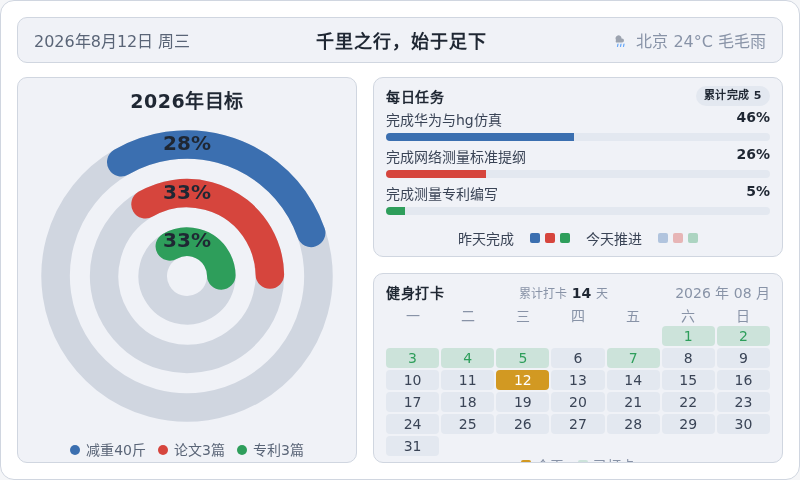
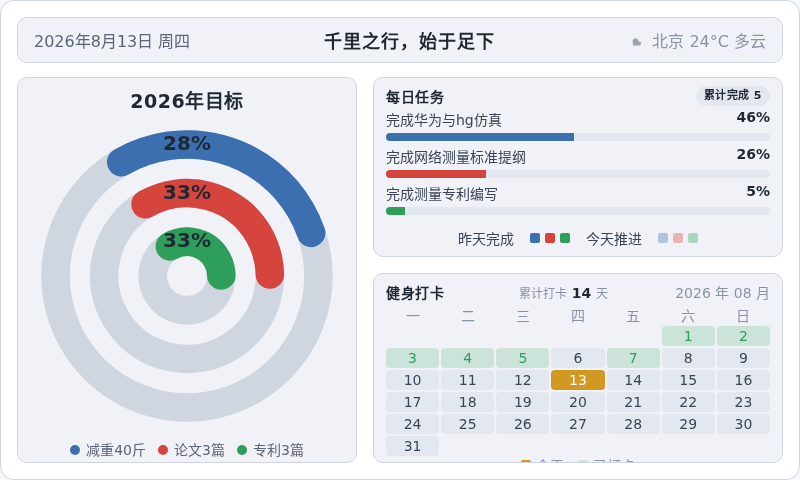
chore: 每日看板刷新 2026-08-13

diff --git a/output/dashboard.html b/output/dashboard.html
@@ -185,11 +185,11 @@
 <body>
   <div class="dash">
     <div class="topbar">
-      <div class="tb-date" id="tbDate">2026年8月12日 周三</div>
+      <div class="tb-date" id="tbDate">2026年8月13日 周四</div>
       <div class="tb-slogan">千里之行，始于足下</div>
       <div class="tb-weather">
-        <svg width="16" height="16" viewBox="0 0 16 16" aria-hidden="true"><path d="M4 8 a3 3 0 1 1 5.5 -1.5 h0.5 a2 2 0 1 1 0 4 H4 a2.5 2.5 0 0 1 0 -2.5z" fill="#9ca3af"/><g stroke="#60a5fa" stroke-width="1.2" stroke-linecap="round"><line x1="6" y1="12" x2="5.5" y2="14.5"/><line x1="9" y1="12" x2="8.5" y2="14.5"/><line x1="12" y1="12" x2="11.5" y2="14.5"/></g></svg>
-        <span>北京 24°C 毛毛雨</span>
+        <svg width="16" height="16" viewBox="0 0 16 16" aria-hidden="true"><path d="M5 11 a3 3 0 1 1 5.5 -1.5 h0.5 a2 2 0 1 1 0 4 H5 a2.5 2.5 0 0 1 0 -2.5z" fill="#9ca3af"/></svg>
+        <span>北京 24°C 多云</span>
       </div>
     </div>
     <div class="content">
@@ -248,7 +248,7 @@
           <span class="cal-date">2026 年 08 月</span>
         </div>
         <div class="cal-grid wk"><span>一</span><span>二</span><span>三</span><span>四</span><span>五</span><span>六</span><span>日</span></div>
-        <div class="cal-grid"><span class="cell empty"></span><span class="cell empty"></span><span class="cell empty"></span><span class="cell empty"></span><span class="cell empty"></span><span class="cell done" style="background:rgba(46,158,91,0.18);color:#2e9e5b">1</span><span class="cell done" style="background:rgba(46,158,91,0.18);color:#2e9e5b">2</span><span class="cell done" style="background:rgba(46,158,91,0.18);color:#2e9e5b">3</span><span class="cell done" style="background:rgba(46,158,91,0.18);color:#2e9e5b">4</span><span class="cell done" style="background:rgba(46,158,91,0.18);color:#2e9e5b">5</span><span class="cell" style="background:#e3e8f0;color:#3a4456">6</span><span class="cell done" style="background:rgba(46,158,91,0.18);color:#2e9e5b">7</span><span class="cell" style="background:#e3e8f0;color:#3a4456">8</span><span class="cell" style="background:#e3e8f0;color:#3a4456">9</span><span class="cell" style="background:#e3e8f0;color:#3a4456">10</span><span class="cell" style="background:#e3e8f0;color:#3a4456">11</span><span class="cell today" style="background:#d29922;color:#ffffff">12</span><span class="cell" style="background:#e3e8f0;color:#3a4456">13</span><span class="cell" style="background:#e3e8f0;color:#3a4456">14</span><span class="cell" style="background:#e3e8f0;color:#3a4456">15</span><span class="cell" style="background:#e3e8f0;color:#3a4456">16</span><span class="cell" style="background:#e3e8f0;color:#3a4456">17</span><span class="cell" style="background:#e3e8f0;color:#3a4456">18</span><span class="cell" style="background:#e3e8f0;color:#3a4456">19</span><span class="cell" style="background:#e3e8f0;color:#3a4456">20</span><span class="cell" style="background:#e3e8f0;color:#3a4456">21</span><span class="cell" style="background:#e3e8f0;color:#3a4456">22</span><span class="cell" style="background:#e3e8f0;color:#3a4456">23</span><span class="cell" style="background:#e3e8f0;color:#3a4456">24</span><span class="cell" style="background:#e3e8f0;color:#3a4456">25</span><span class="cell" style="background:#e3e8f0;color:#3a4456">26</span><span class="cell" style="background:#e3e8f0;color:#3a4456">27</span><span class="cell" style="background:#e3e8f0;color:#3a4456">28</span><span class="cell" style="background:#e3e8f0;color:#3a4456">29</span><span class="cell" style="background:#e3e8f0;color:#3a4456">30</span><span class="cell" style="background:#e3e8f0;color:#3a4456">31</span></div>
+        <div class="cal-grid"><span class="cell empty"></span><span class="cell empty"></span><span class="cell empty"></span><span class="cell empty"></span><span class="cell empty"></span><span class="cell done" style="background:rgba(46,158,91,0.18);color:#2e9e5b">1</span><span class="cell done" style="background:rgba(46,158,91,0.18);color:#2e9e5b">2</span><span class="cell done" style="background:rgba(46,158,91,0.18);color:#2e9e5b">3</span><span class="cell done" style="background:rgba(46,158,91,0.18);color:#2e9e5b">4</span><span class="cell done" style="background:rgba(46,158,91,0.18);color:#2e9e5b">5</span><span class="cell" style="background:#e3e8f0;color:#3a4456">6</span><span class="cell done" style="background:rgba(46,158,91,0.18);color:#2e9e5b">7</span><span class="cell" style="background:#e3e8f0;color:#3a4456">8</span><span class="cell" style="background:#e3e8f0;color:#3a4456">9</span><span class="cell" style="background:#e3e8f0;color:#3a4456">10</span><span class="cell" style="background:#e3e8f0;color:#3a4456">11</span><span class="cell" style="background:#e3e8f0;color:#3a4456">12</span><span class="cell today" style="background:#d29922;color:#ffffff">13</span><span class="cell" style="background:#e3e8f0;color:#3a4456">14</span><span class="cell" style="background:#e3e8f0;color:#3a4456">15</span><span class="cell" style="background:#e3e8f0;color:#3a4456">16</span><span class="cell" style="background:#e3e8f0;color:#3a4456">17</span><span class="cell" style="background:#e3e8f0;color:#3a4456">18</span><span class="cell" style="background:#e3e8f0;color:#3a4456">19</span><span class="cell" style="background:#e3e8f0;color:#3a4456">20</span><span class="cell" style="background:#e3e8f0;color:#3a4456">21</span><span class="cell" style="background:#e3e8f0;color:#3a4456">22</span><span class="cell" style="background:#e3e8f0;color:#3a4456">23</span><span class="cell" style="background:#e3e8f0;color:#3a4456">24</span><span class="cell" style="background:#e3e8f0;color:#3a4456">25</span><span class="cell" style="background:#e3e8f0;color:#3a4456">26</span><span class="cell" style="background:#e3e8f0;color:#3a4456">27</span><span class="cell" style="background:#e3e8f0;color:#3a4456">28</span><span class="cell" style="background:#e3e8f0;color:#3a4456">29</span><span class="cell" style="background:#e3e8f0;color:#3a4456">30</span><span class="cell" style="background:#e3e8f0;color:#3a4456">31</span></div>
         <div class="cal-legend">
           <span style="color:#8893a7"><i class="sw" style="background:#d29922"></i>今天</span>
           <span style="color:#8893a7"><i class="sw" style="background:rgba(46,158,91,0.18)"></i>已打卡</span>
